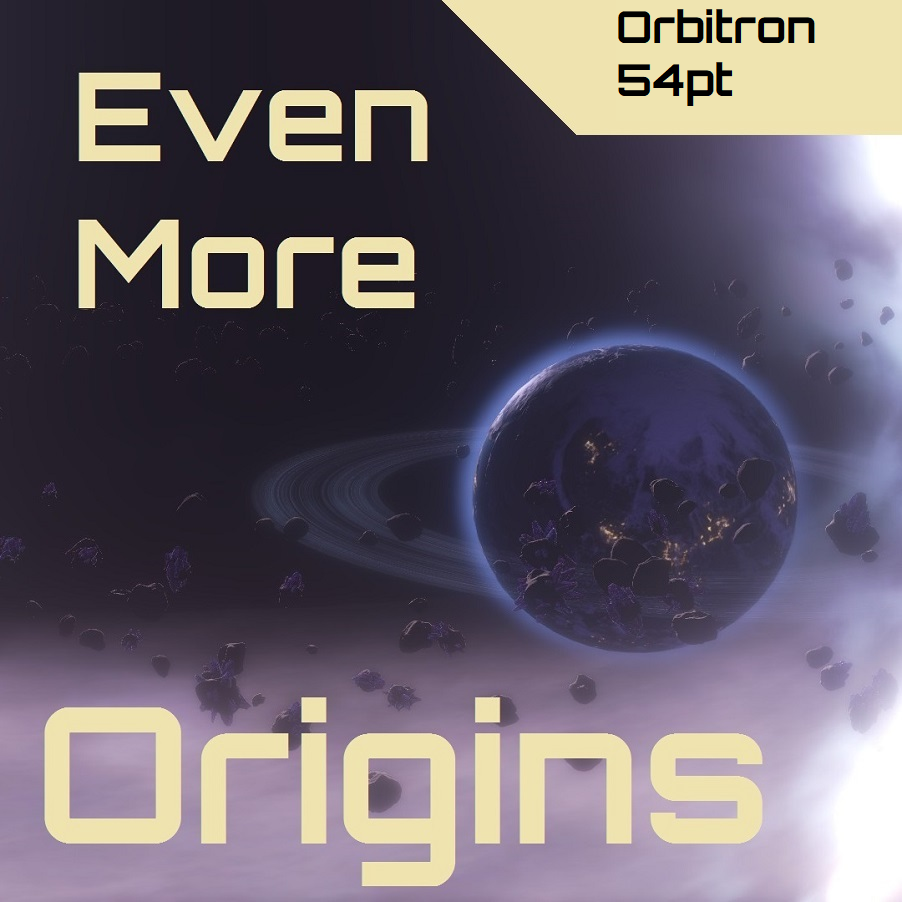
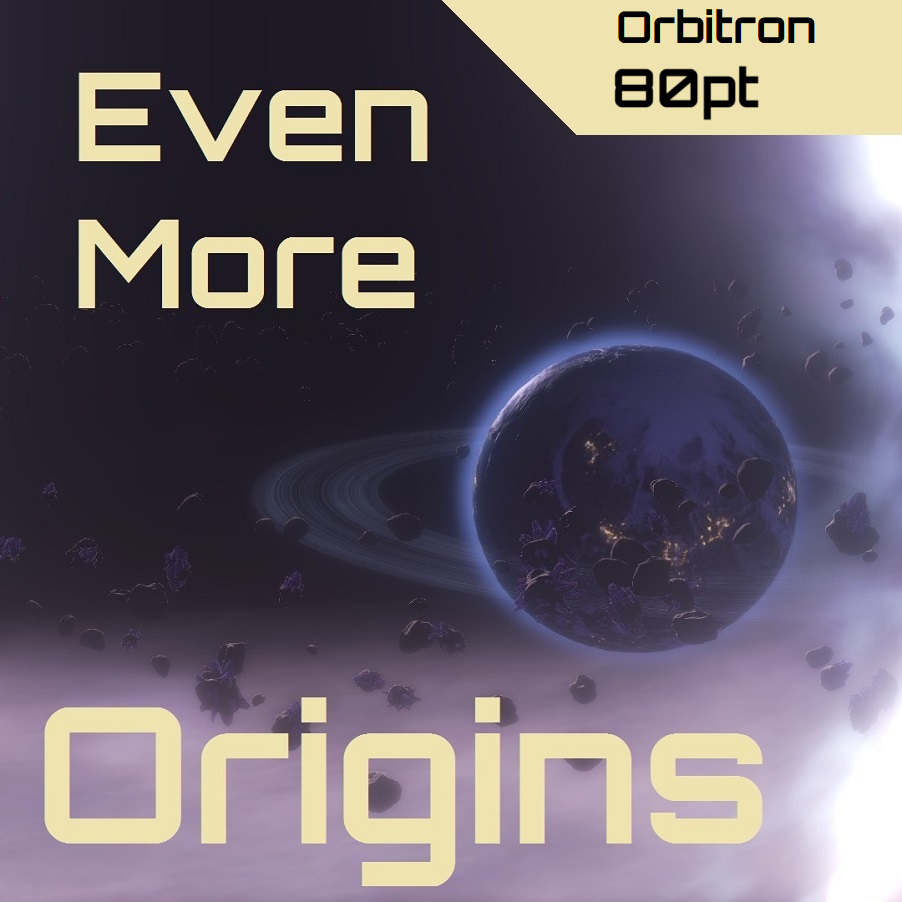
Update to version 1.20.1

Changed region(s): [[0.6829, 0.0621, 0.8381, 0.1242]]

diff --git a/steam-workshop/change-notes.md b/steam-workshop/change-notes.md
@@ -1,3 +1,10 @@
+Version 1.20.1
+* Fixed thumbnail
+
+Version 1.20.0
+* Update to game version 3.11.*
+* Updated "Eldest Sibling" Origin, allowing you to choose on which planets pre-FTL empires will spawn.
+
 Version 1.19.1
 * Fixed missing localization for non-english languages.
 
